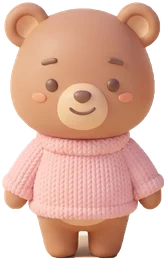
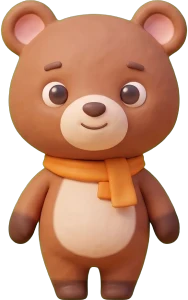
v36：五隻主角換成狐狸風格新圖＋紙偶式走路（左右腳輪流抬）
Claude-Session: https://claude.ai/code/session_01CEkvYNXCC61BsNkuCYH8Eg

diff --git a/js/yard.js b/js/yard.js
@@ -193,24 +193,32 @@ function bindScene(){
 
 /* ---------- 主角：五隻都換成新比例的生成圖，可以換 4 套衣服 ---------- */
 HEROES.dog=HEROES.dog||{name:'小狗',c:'#D9824A'};
-const Y_HERO_NEW={bear:[[164,260],[160,260],[160,260],[164,260]],dog:[[192,260],[192,260],[192,260],[194,260]],
-  fox:[[163,260],[163,260],[163,260],[163,260]],rabbit:[[140,260],[136,260],[136,260],[138,260]],cat:[[167,260],[163,260],[163,260],[164,260]]};
+/* 每張圖：[寬(高都是300), 腳縫開始的高度, 兩腳中間, 腳的左邊, 腳的右邊]（比例，程式量出來的） */
+const Y_HM={bear1:[188,0.89,0.5,0.229,0.766],bear2:[187,0.89,0.497,0.23,0.765],bear3:[188,0.89,0.5,0.229,0.766],bear4:[187,0.89,0.497,0.23,0.765],dog1:[213,0.883,0.5,0.258,0.742],dog2:[214,0.88,0.5,0.257,0.743],dog3:[213,0.883,0.495,0.254,0.742],dog4:[214,0.883,0.498,0.252,0.738],rabbit1:[130,0.913,0.5,0.2,0.792],rabbit2:[130,0.913,0.5,0.2,0.792],rabbit3:[130,0.913,0.496,0.2,0.792],rabbit4:[129,0.913,0.5,0.202,0.798],cat1:[191,0.893,0.563,0.309,0.812],cat2:[191,0.893,0.563,0.309,0.812],cat3:[191,0.893,0.56,0.309,0.812],cat4:[191,0.893,0.56,0.309,0.806],fox1:[186,0.897,0.5,0.253,0.747],fox2:[186,0.897,0.505,0.253,0.753],fox3:[186,0.897,0.5,0.253,0.747],fox4:[186,0.897,0.5,0.247,0.747]};
+const Y_HERO_NEW={bear:1,dog:1,fox:1,rabbit:1,cat:1};
 /* 帽子戴在哪：頭頂離圖最上面多遠（兔子有長耳朵，頭比較低）、頭寬是圖寬的幾成 */
-const Y_HEAD={bear:[.04,.7],dog:[.04,.6],fox:[.1,.6],rabbit:[.3,.72],cat:[.08,.64]};
-const Y_OUTFITS=[['粉紅毛衣','#F5A9B8'],['薄荷點點','#93D8BF'],['鵝黃條紋','#FBD56E'],['天空格子','#9CCBEF']];
+const Y_HEAD={bear:[.03,.8],dog:[.04,.6],fox:[.05,.66],rabbit:[.28,.78],cat:[.05,.66]};
+let yClipN=0;
+const Y_OUTFITS=[['橘色圍巾','#F2A65A'],['薄荷點點','#93D8BF'],['鵝黃條紋','#FBD56E'],['天空格子','#9CCBEF']];
 const yHeroOld=hero;
 hero=function(type,size=90,eqo){
   if(!Y_HERO_NEW[type])return yHeroOld(type,size,eqo);
   const eq=eqo||store.equip||{};const of=Math.max(1,Math.min(4,(eqo?1:(store.hero&&store.hero.type===type&&store.hero.outfit)||1)));
-  const [iw,ih]=Y_HERO_NEW[type][of-1],h=124,w=h*iw/ih;
-  /* 頭頂大約在圖的最上面往下 6%，頭寬大約是圖寬的 70%（小狗的耳朵比較寬，頭寬抓 60%） */
+  const M=Y_HM[type+of]||Y_HM[type+'1'],h=124,w=h*M[0]/300,x0=50-w/2,y0=-6;
+  /* 紙偶走路：同一張圖剪成身體＋左腳＋右腳，走路時兩腳輪流抬起（腳畫在身體後面，抬起來會藏進身體） */
+  const cy=y0+h*M[1],gx=x0+w*M[2],l0=x0+w*M[3],l1=x0+w*M[4],yb=y0+h+2,id='yhc'+(++yClipN),href=`img/hero_${type}${of}.webp`;
+  const im=c=>`<image href="${href}" x="${x0.toFixed(1)}" y="${y0}" width="${w.toFixed(1)}" height="${h}" clip-path="url(#${id}${c})"/>`;
+  const art=`<defs><clipPath id="${id}b"><rect x="-60" y="-80" width="220" height="${(cy+80).toFixed(1)}"/><rect x="-60" y="${cy.toFixed(1)}" width="${(l0+60).toFixed(1)}" height="60"/><rect x="${l1.toFixed(1)}" y="${cy.toFixed(1)}" width="${(160-l1).toFixed(1)}" height="60"/></clipPath>
+    <clipPath id="${id}l"><rect x="${l0.toFixed(1)}" y="${(cy-3).toFixed(1)}" width="${(gx-l0).toFixed(1)}" height="${(yb-cy+3).toFixed(1)}"/></clipPath><clipPath id="${id}r"><rect x="${gx.toFixed(1)}" y="${(cy-3).toFixed(1)}" width="${(l1-gx).toFixed(1)}" height="${(yb-cy+3).toFixed(1)}"/></clipPath></defs>
+    <g class="hleg hlegL">${im('l')}</g><g class="hleg hlegR">${im('r')}</g>${im('b')}`;
+  /* 頭頂大約在圖的最上面往下一點，頭寬依動物不同 */
   const [ht,hr]=Y_HEAD[type]||[.04,.7],hw=w*hr,hs=hw/60,top=-6+h*ht;
   const cape=eq.hback==='cape'?`<path d="M28 62 Q50 54 72 62 L84 114 Q50 122 16 114Z" fill="#E4574B"/><path d="M28 62 Q50 54 72 62" stroke="#B8382F" stroke-width="3" fill="none"/>`:'';
   const pack=eq.hback==='pack'?`<rect x="68" y="66" width="20" height="30" rx="8" fill="#5B8DEF"/><rect x="72" y="73" width="12" height="7" rx="2" fill="#3E6FD0"/>`:'';
   const hat=eq.hhead==='straw'?`<ellipse cx="50" cy="22" rx="34" ry="7" fill="#E9C46A"/><path d="M34 22 Q36 4 50 4 Q64 4 66 22Z" fill="#F2D384"/><rect x="34" y="15" width="32" height="5" fill="#E76F51"/>`
     :eq.hhead==='wizard'?`<path d="M28 24 L54 -14 L72 24Z" fill="#7B5CC9"/><ellipse cx="50" cy="24" rx="27" ry="5" fill="#5E43A8"/><circle cx="54" cy="-13" r="4" fill="#FFD166"/><path d="M50 4 l2 -5 l2 5 l5 1 l-4 3 l1 5 l-4 -3 l-4 3 l1 -5 l-4 -3z" fill="#FFD166"/>`:'';
   return `<svg width="${size}" height="${Math.round(size*1.36)}" viewBox="0 -16 100 136" overflow="visible">${cape}${pack}
-    <image href="img/hero_${type}${of}.webp" x="${(50-w/2).toFixed(1)}" y="-6" width="${w.toFixed(1)}" height="${h}"/>
+    ${art}
     ${hat?`<g transform="translate(50 ${top.toFixed(1)}) scale(${hs.toFixed(2)}) translate(-50 -22)">${hat}</g>`:''}</svg>`};
 
 /* 選主角的頁面：多一排衣服可以選 */
@@ -221,5 +229,5 @@ renderHeroes=function(){yRenderHeroesOld();let box=$('#yOutfits');
   const cur=(store.hero&&store.hero.type===t&&store.hero.outfit)||S.yOutfit||1;S.yOutfit=cur;
   box.innerHTML=`<p class="hint" style="width:100%;margin:0 0 4px">選一件衣服</p>`+Y_OUTFITS.map(([n,c],i)=>`<button class="chip ${cur===i+1?'sel':''}" data-of="${i+1}"><i style="display:inline-block;width:16px;height:16px;border-radius:50%;background:${c};vertical-align:-3px;margin-right:6px"></i>${n}</button>`).join('');
   $$('#yOutfits [data-of]').forEach(b=>b.onclick=()=>{S.yOutfit=+b.dataset.of;if(store.hero&&store.hero.type===t){store.hero.outfit=S.yOutfit;save()}tone(600,.1);renderHeroes()});
-  const sel=$(`[data-hero="${t}"] svg image`);if(sel)sel.setAttribute('href',`img/hero_${t}${cur}.webp`)};
+  $$(`[data-hero="${t}"] svg image`).forEach(im=>im.setAttribute('href',`img/hero_${t}${cur}.webp`))};
 $('#heroOk').onclick=()=>{const nm=$('#heroNameIn').value.trim()||HEROES[heroPick].name;store.hero={type:heroPick,name:nm};if(Y_HERO_NEW[heroPick])store.hero.outfit=S.yOutfit||1;save();chime();go(10)};

diff --git a/css/clay.css b/css/clay.css
@@ -418,6 +418,11 @@ svg.yard .act.ywalk{animation:ywalk .42s ease-in-out infinite}
 svg.yard .ydust circle{transform-box:fill-box;transform-origin:center;animation:ydust .75s ease-out forwards}
 @keyframes ydust{0%{opacity:.9;transform:scale(.4)}100%{opacity:0;transform:translateY(-5px) scale(1.6)}}
 svg.yard .actor{will-change:transform}
+/* v36 紙偶走路：左右腳輪流抬，和身體的 ywalk 同一拍（身體在 25%、75% 往上時，正好一隻腳抬起） */
+
+svg.yard .ywalk .hlegL{animation:yleg .42s ease-in-out infinite}
+svg.yard .ywalk .hlegR{animation:yleg .42s ease-in-out infinite;animation-delay:-.21s}
+@keyframes yleg{0%,50%,100%{transform:translateY(0)}25%{transform:translateY(-4.5px)}}
 @media (prefers-reduced-motion:reduce){svg.yard *{animation:none!important}}
 
 /* =========================================================

diff --git a/sw.js b/sw.js
@@ -1,6 +1,6 @@
 /* 離線快取（v21）：第一次開啟時把整個工具存進裝置，之後沒有網路也能開，而且一點就開。
    ★ 每次更新程式或圖片，都要把下面的 VERSION 改掉（例如 v21 → v22），裝置才會抓新版。 */
-const VERSION='v35';
+const VERSION='v36';
 const CACHE='calm-monster-'+VERSION;
 const FILES=[
   './',
